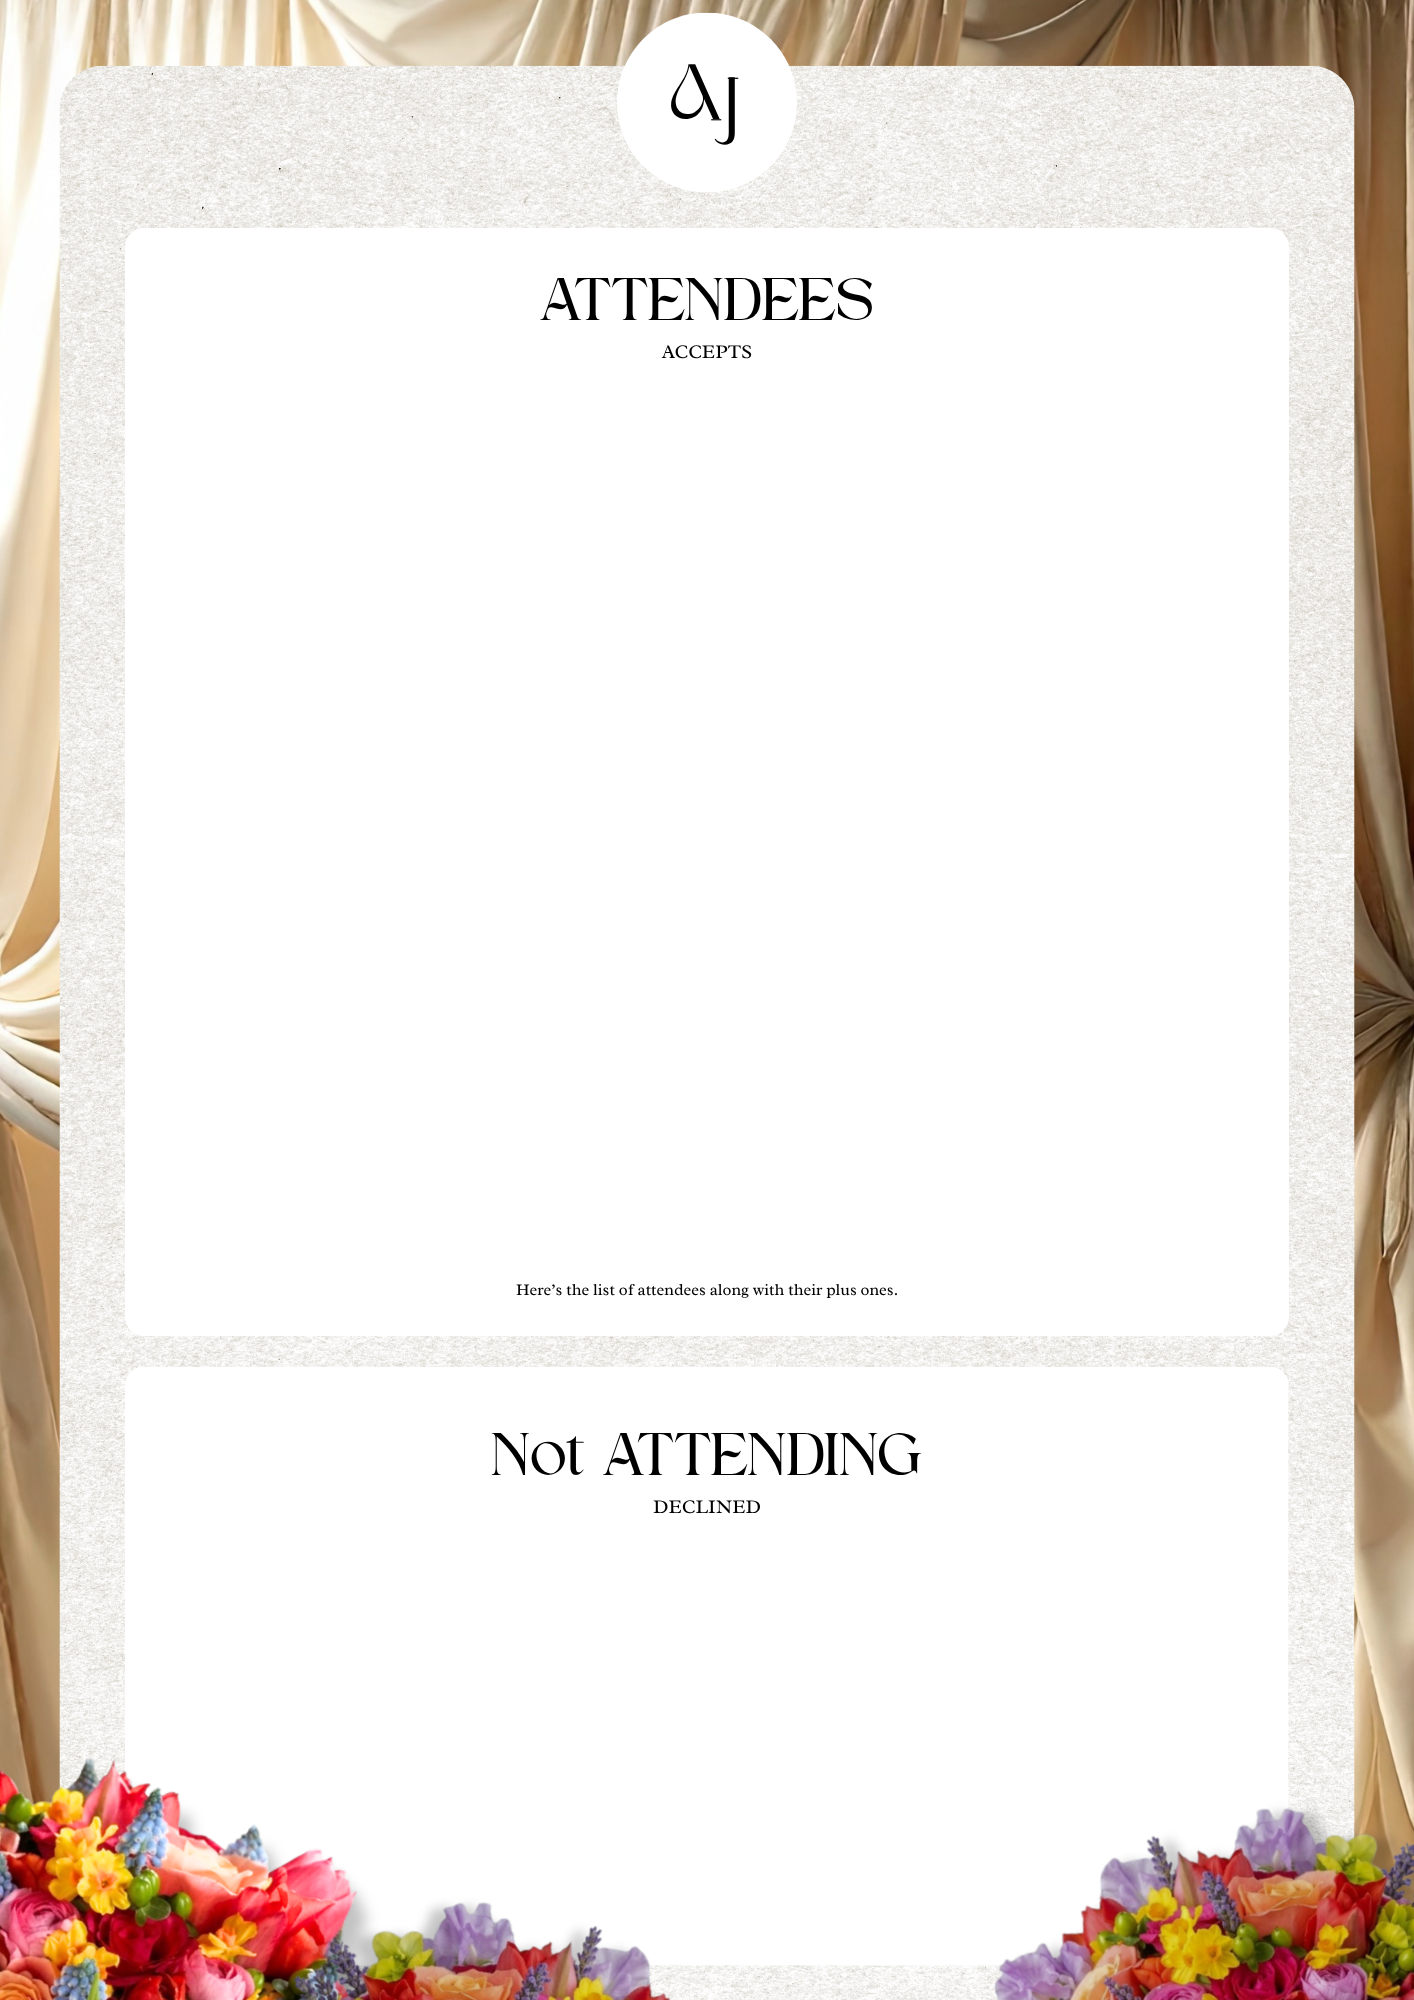
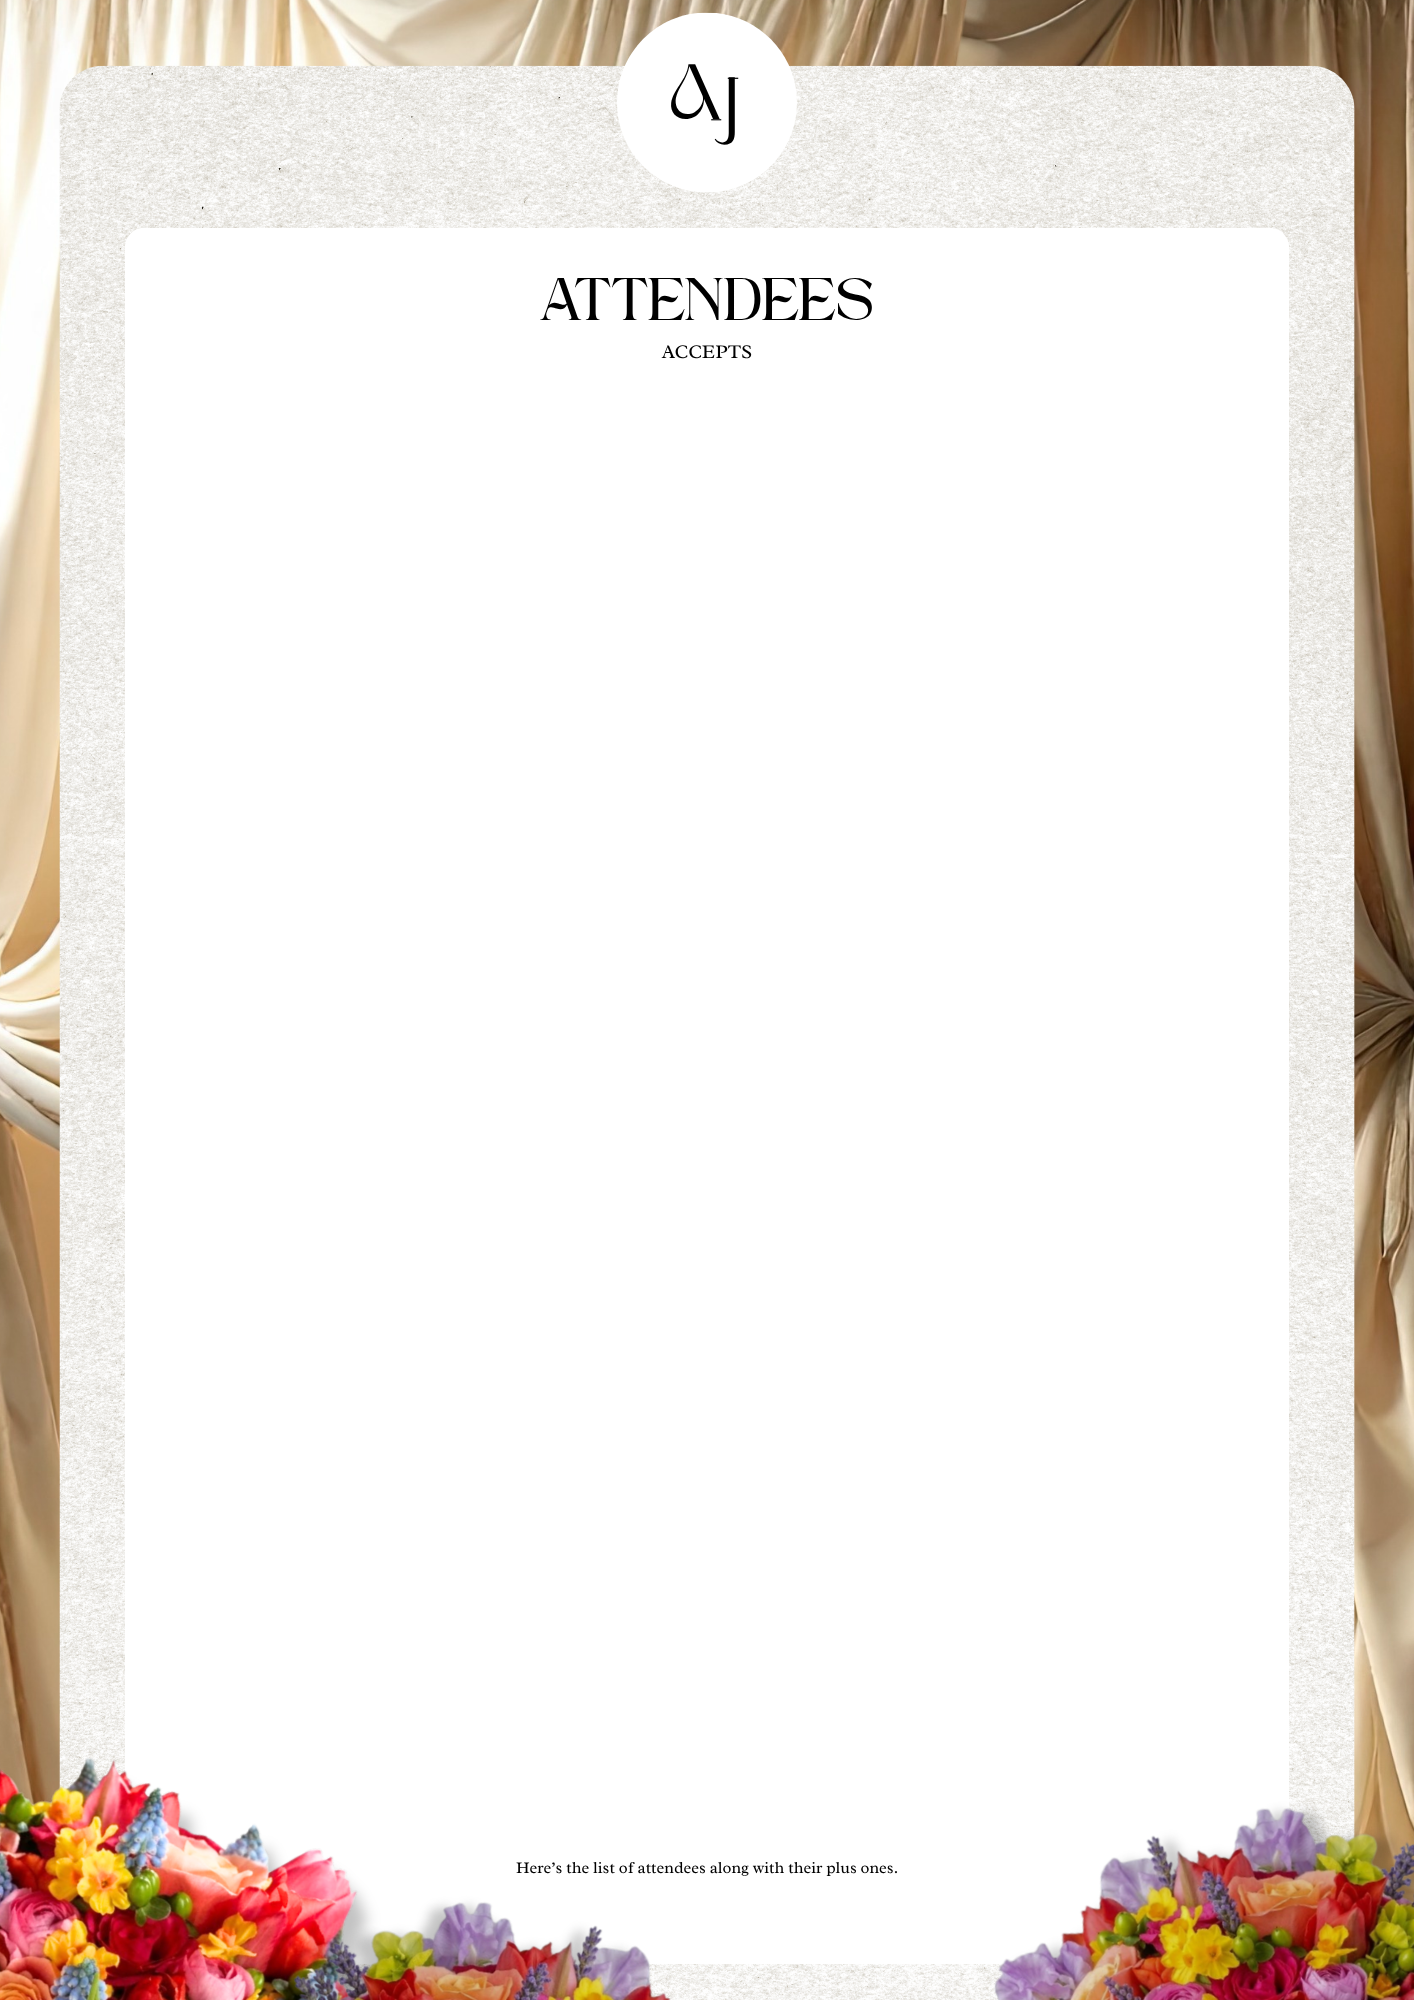
Print numbered guests in two columns
Use the updated accepts artwork and list finalized attending guests top-to-bottom in each column. Keep approved plus-ones bulleted under invitees and exclude declined or pending guests.

diff --git a/public/app.js b/public/app.js
@@ -449,94 +449,68 @@ function renderRsvps(rsvps) {
   renderRsvpCards(visibleRsvps, emptyMessage);
 }
 
-function paginateGuestGroups(groups, rowLimit) {
+function paginateGuestGroups(groups, rowsPerColumn) {
   const pages = [];
-  let page = [];
-  let rows = 0;
+  let page = [[], []];
+  let rowCounts = [0, 0];
+  let columnIndex = 0;
+
   groups.forEach((group) => {
-    const guestChunkSize = rowLimit - 1;
-    const chunks = group.guests.length
-      ? Array.from(
-        { length: Math.ceil(group.guests.length / guestChunkSize) },
-        (_, index) => group.guests.slice(index * guestChunkSize, (index + 1) * guestChunkSize)
-      )
-      : [[]];
-    chunks.forEach((guests) => {
-      const groupRows = 1 + guests.length;
-      if (page.length && rows + groupRows > rowLimit) {
-        pages.push(page);
-        page = [];
-        rows = 0;
-      }
-      page.push({ name: group.name, guests });
-      rows += groupRows;
-      if (rows === rowLimit) {
-        pages.push(page);
-        page = [];
-        rows = 0;
-      }
-    });
+    const groupRows = 1 + group.guests.length;
+    if (rowCounts[columnIndex] + groupRows > rowsPerColumn && columnIndex === 0) {
+      columnIndex = 1;
+    }
+    if (rowCounts[columnIndex] + groupRows > rowsPerColumn) {
+      pages.push(page);
+      page = [[], []];
+      rowCounts = [0, 0];
+      columnIndex = 0;
+    }
+    page[columnIndex].push(group);
+    rowCounts[columnIndex] += groupRows;
   });
-  if (page.length) pages.push(page);
+
+  if (page.some((column) => column.length)) pages.push(page);
   return pages;
 }
 
-function renderPrintGroups(groups, emptyMessage) {
-  if (!groups.length) return `<p class="attendees-print-empty">${escapeHtml(emptyMessage)}</p>`;
-  const columns = [[], []];
-  groups.forEach((group, index) => {
-    const column = columns[index % 2];
-    column.push({ name: group.name, isPlusOne: false });
-    group.guests.forEach((name) => {
-      column.push({ name, isPlusOne: true });
-    });
-    column[column.length - 1].isGroupEnd = true;
-  });
-  const rowCount = Math.max(...columns.map((column) => column.length));
-  const renderPerson = (person) => person
-    ? `<span class="attendees-print-person${person.isPlusOne ? " is-plus-one" : ""}${person.isGroupEnd ? " is-group-end" : ""}">${escapeHtml(person.name)}</span>`
-    : '<span aria-hidden="true"></span>';
-  return `<div class="attendees-print-rows attendees-print-rows-${rowCount}">
-    ${Array.from({ length: rowCount }, (_, index) => `
-      <div class="attendees-print-row">
-        ${renderPerson(columns[0][index])}
-        <span class="attendees-print-center-gap" aria-hidden="true"></span>
-        ${renderPerson(columns[1][index])}
-      </div>`).join("")}
+function renderPrintGroups(columns, emptyMessage) {
+  if (!columns.some((column) => column.length)) {
+    return `<p class="attendees-print-empty">${escapeHtml(emptyMessage)}</p>`;
+  }
+  return `<div class="attendees-print-columns">
+    ${columns.map((groups) => `<div class="attendees-print-column">${groups.map((group) => `
+      <div class="attendees-print-group">
+        <span class="attendees-print-person attendees-print-name"><span class="attendees-print-number">${group.number}</span> ${escapeHtml(group.name)}</span>
+        ${group.guests.map((name) => `
+          <span class="attendees-print-person is-plus-one">${escapeHtml(name)}</span>`
+        ).join("")}
+      </div>`).join("")}</div>`).join("")}
   </div>`;
 }
 
 async function previewFinalizedGuestList() {
   const accepted = [];
-  const declined = [];
   dashboardRsvps.forEach((rsvp) => {
     const plusOnes = Array.isArray(rsvp.plusOnes) ? rsvp.plusOnes : [];
-    if (rsvp.attendance === "declining") {
-      declined.push({ name: rsvp.fullName, guests: [] });
-      return;
-    }
+    if (rsvp.attendance !== "attending") return;
     if (plusOnes.length && rsvp.plusOneReviewFinalized !== true) return;
 
     accepted.push({
+      number: accepted.length + 1,
       name: rsvp.fullName,
       guests: plusOnes.filter((guest) => guest.status === "approved").map((guest) => guest.name)
     });
-    const declinedPlusOnes = plusOnes.filter((guest) => guest.status === "declined").map((guest) => guest.name);
-    if (declinedPlusOnes.length) declined.push({ name: rsvp.fullName, guests: declinedPlusOnes });
   });
 
   const acceptedPages = paginateGuestGroups(accepted, 30);
-  const declinedPages = paginateGuestGroups(declined, 8);
-  const pageCount = Math.max(acceptedPages.length, declinedPages.length, 1);
+  const pageCount = Math.max(acceptedPages.length, 1);
   elements.attendeesPreviewNote.textContent = "Review the pages below, then print when they look right.";
   elements.attendeesPrint.innerHTML = Array.from({ length: pageCount }, (_, index) => `
     <section class="attendees-print-page" aria-label="Guest list, page ${index + 1}">
       <img class="attendees-print-artwork" src="/print-assets/attendees.png" alt="">
       <div class="attendees-print-list attendees-print-accepted">
-        ${renderPrintGroups(acceptedPages[index] || [], "No finalized attending guests.")}
-      </div>
-      <div class="attendees-print-list attendees-print-declined">
-        ${renderPrintGroups(declinedPages[index] || [], "No finalized declined guests.")}
+        ${renderPrintGroups(acceptedPages[index] || [[], []], "No finalized attending guests.")}
       </div>
     </section>`).join("");
 

diff --git a/public/styles.css b/public/styles.css
@@ -1612,51 +1612,33 @@ body.showing-invitation main { width: min(100%, 430px); }
 
 .attendees-print-list {
   position: absolute;
-  left: 13%;
-  width: 74%;
+  left: 10%;
+  width: 80%;
   overflow: hidden;
-  font-size: 8.5pt;
-  line-height: 1.15;
-}
-
-.attendees-print-accepted {
-  top: 19%;
-  height: 41%;
-}
-
-.attendees-print-declined {
-  top: 77%;
-  height: 9%;
   font-size: 6pt;
   line-height: 1.05;
 }
 
-.attendees-print-rows {
-  display: flex;
-  height: 100%;
-  flex-direction: column;
-  justify-content: space-between;
+.attendees-print-accepted {
+  top: 27%;
+  height: 63%;
 }
 
-.attendees-print-accepted .attendees-print-rows {
-  height: auto;
-  justify-content: flex-start;
-}
-
-.attendees-print-declined .attendees-print-rows {
-  height: auto;
-  justify-content: flex-start;
-}
-
-.attendees-print-row {
+.attendees-print-columns {
   display: grid;
-  grid-template-columns: repeat(3, minmax(0, 1fr));
-  line-height: 1.15;
+  grid-template-columns: repeat(2, minmax(0, 1fr));
+  column-gap: 12mm;
+  transform: translateX(10.5%);
 }
 
-.attendees-print-center-gap {
+.attendees-print-column {
+  display: flex;
   min-width: 0;
+  flex-direction: column;
+  gap: 1.5mm;
 }
+
+.attendees-print-group { min-width: 0; }
 
 .attendees-print-person {
   display: block;
@@ -1664,16 +1646,15 @@ body.showing-invitation main { width: min(100%, 430px); }
   overflow-wrap: anywhere;
 }
 
-.attendees-print-row > :first-child {
-  padding-left: 2mm;
+.attendees-print-number {
+  display: inline-block;
+  min-width: 2mm;
+  font-size: 0.75em;
+  vertical-align: 0.1em;
 }
 
 .attendees-print-person.is-plus-one {
-  padding-left: 4mm;
-}
-
-.attendees-print-person.is-group-end {
-  margin-bottom: 1.5mm;
+  padding-left: 8mm;
 }
 
 .attendees-print-person.is-plus-one::before {

diff --git a/public/index.html b/public/index.html
@@ -9,8 +9,8 @@
     <link rel="preconnect" href="https://fonts.googleapis.com">
     <link rel="preconnect" href="https://fonts.gstatic.com" crossorigin>
     <link href="https://fonts.googleapis.com/css2?family=Cormorant+Garamond:ital,wght@0,400;0,500;0,600;0,700;1,400;1,500&family=Great+Vibes&family=Cinzel:wght@500;600&family=Jost:wght@400;500;600&display=swap" rel="stylesheet">
-    <link rel="stylesheet" href="/styles.css?v=1f7552e">
-    <script src="/app.js?v=1f7552e" defer></script>
+    <link rel="stylesheet" href="/styles.css?v=attendees-equal-outer-margins">
+    <script src="/app.js?v=attendees-balanced-margins" defer></script>
   </head>
   <body>
     <main>

diff --git a/README.md b/README.md
@@ -30,7 +30,7 @@ The host dashboard shows RSVP requests that still need review by default. RSVPs 
 
 The host dashboard also manages the invite list. Add each invitee with an allowed number of additional guests (0–20). Guests who are not on the list cannot RSVP, and each invited guest's plus-one limit is checked again on the server when an RSVP is submitted. Local invitation records are stored in [`data/invitations.json`](./data/invitations.json); when `DATABASE_URL` is configured, invitation records are stored in PostgreSQL.
 
-Use **Print finalized guest list** in the host dashboard to preview and then print finalized attending and declined guests using the `asset/ATTENDEES.png` layout. Accepted names and declined names use compact, regular line spacing in the first and third of three equal-width columns, leaving the center column empty; the left column is inset slightly and names use a slightly larger type size. Plus-ones appear on their own indented line directly after the invitee, with a small gap between invitee groups. Pending guest decisions are excluded, and long lists continue onto additional copies of the artwork. Up to eight declined names fit per copy in four rows above the flowers. Empty sections show a message in the preview and print blank.
+Use **Print finalized guest list** in the host dashboard to preview and print finalized attending guests on the `asset/ATTENDEES.png` layout. Declining RSVPs are excluded. Pending guest decisions are excluded, and only approved additional guests appear as bullets below their invitee. Attending invitees are numbered top-to-bottom in the first column, then the second column, beneath the artwork's “Accepts” heading. Long lists continue onto additional copies of the artwork.
 
 ## Customize for another wedding
 
